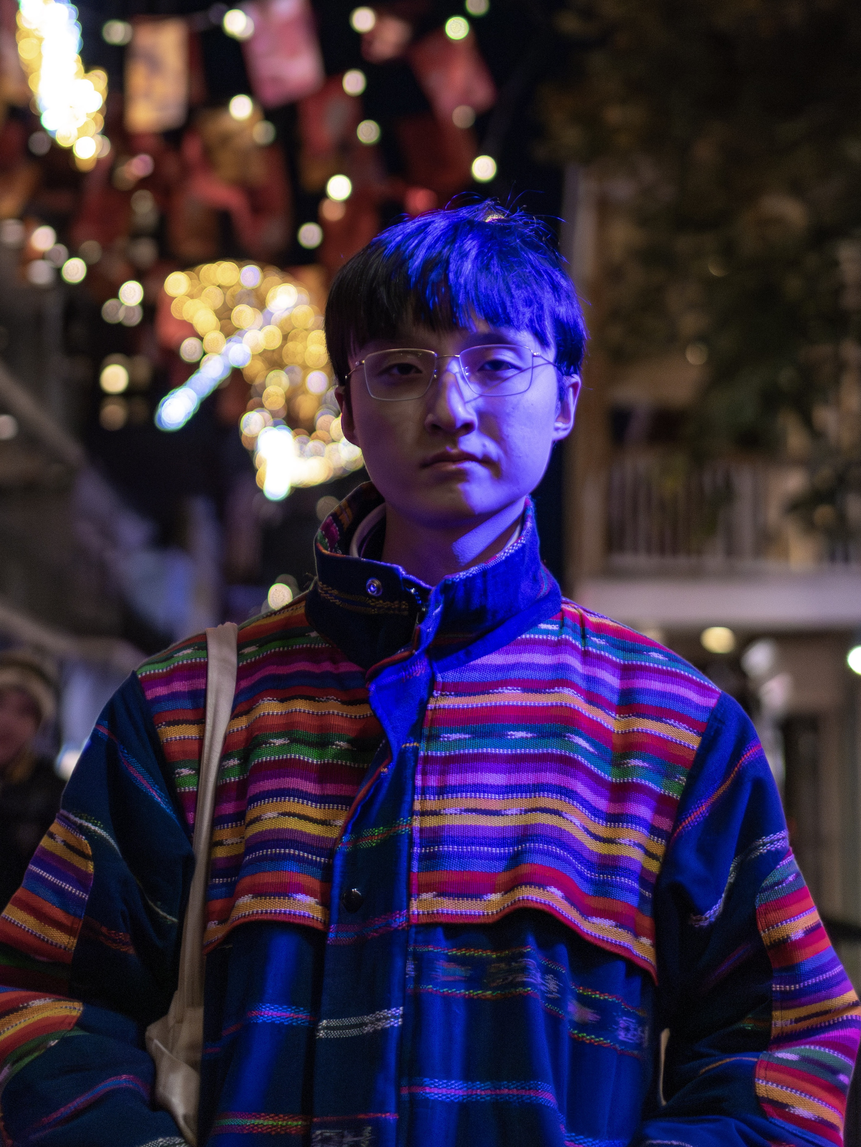
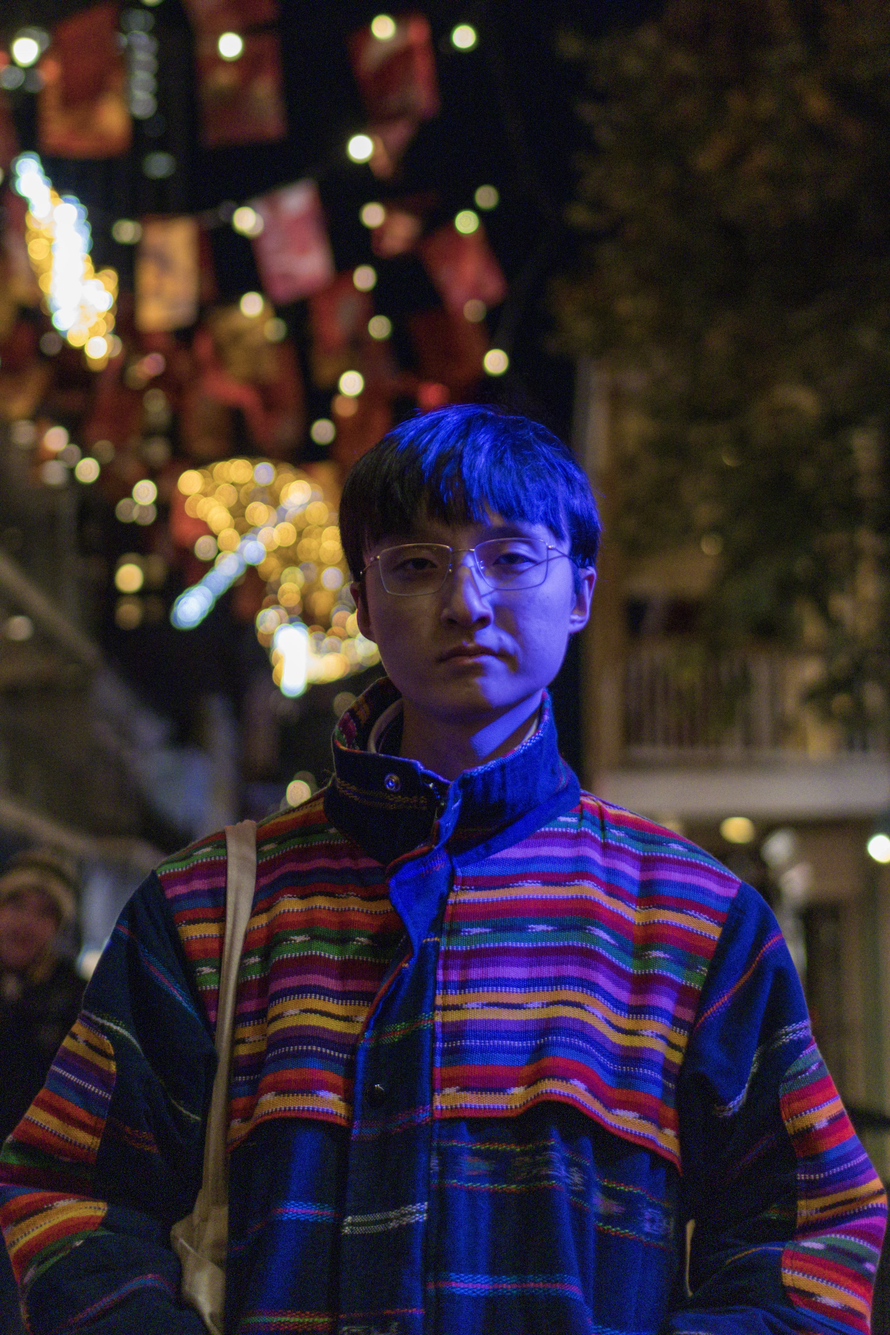
update photo

diff --git a/_pages/about.md b/_pages/about.md
@@ -27,7 +27,7 @@ latest_posts:
   limit: 3 # leave blank to include all the blog posts
 ---
 
-Hi, I'm Haiwei! I'm a linguistics PhD student at Tulane University with a background in computer science, economics, and statistics. My interests include low-resource NLP; morphology, semantics, & syntax; language documentation and revitalisation; and speech community-centered language technologies. 
+Hi, I'm Haiwei! I'm a linguistics PhD student at Tulane University with a background in computer science, economics, and statistics. My interests include low-resource NLP; morphology, semantics, & syntax; language documentation and revitalisation; and speech community-centered language technologies.
 
 I'm a student of Kaqchikel, K'iche', Maaya T'aan, and Vietnamese. I also speak Chinese, English, Portuguese, Spanish, and some Gan Chinese.
 

diff --git a/_pages/cv.md b/_pages/cv.md
@@ -5,7 +5,7 @@ title: cv
 nav: true
 nav_order: 5
 cv_pdf: "Haiwei Hu Resume.pdf" # you can also use external links here
-description: This is a description of the page. You can modify it in '_pages/cv.md'. You can also change or remove the top pdf download button.
+description: Download a copy of my resume using the button at the top right.
 toc:
   sidebar: left
 ---

diff --git a/_pages/dropdown.md b/_pages/dropdown.md
@@ -8,6 +8,6 @@ children:
   - title: bookshelf
     permalink: /books/
   - title: divider
-  - title: blog
-    permalink: /blog/
+  # - title: blog
+  #   permalink: /blog/
 ---
